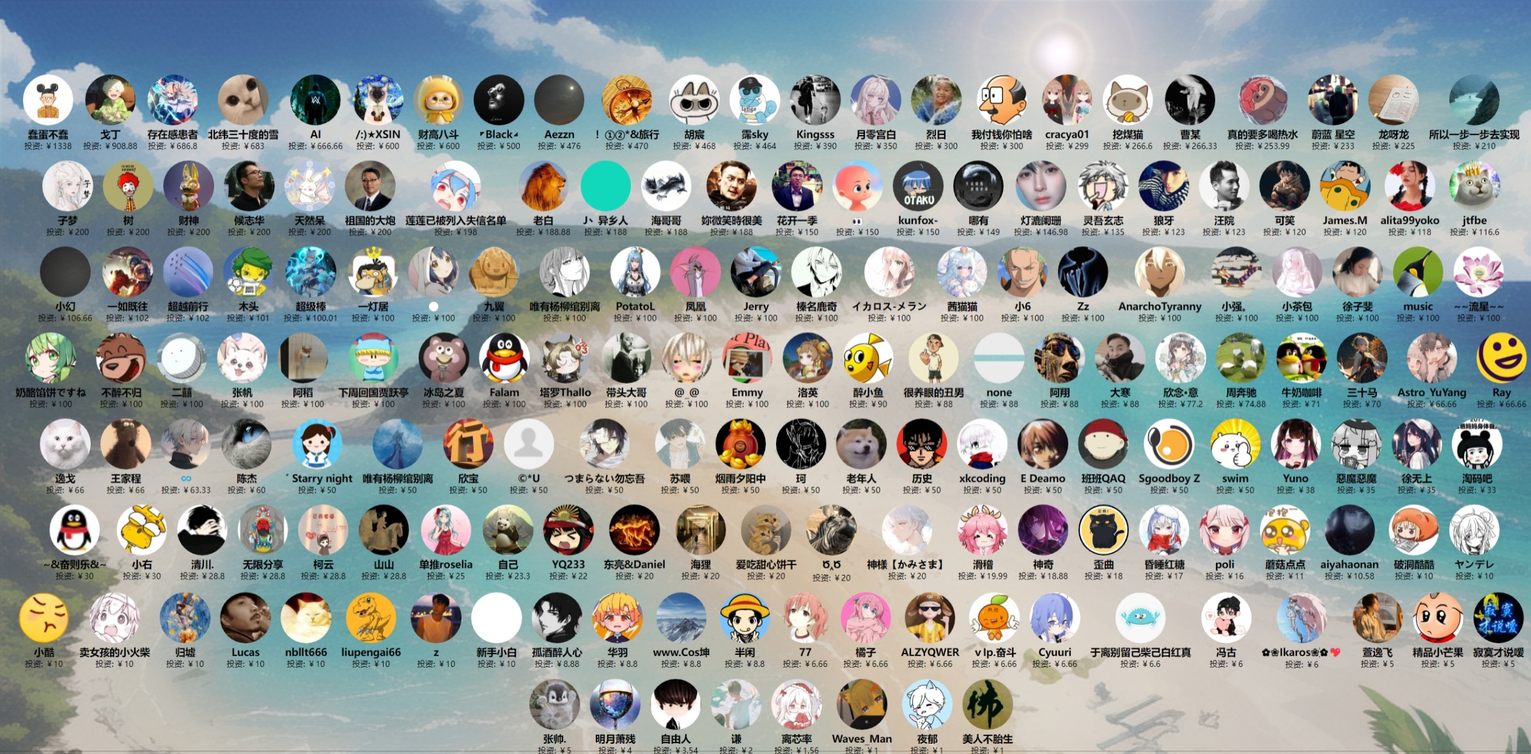
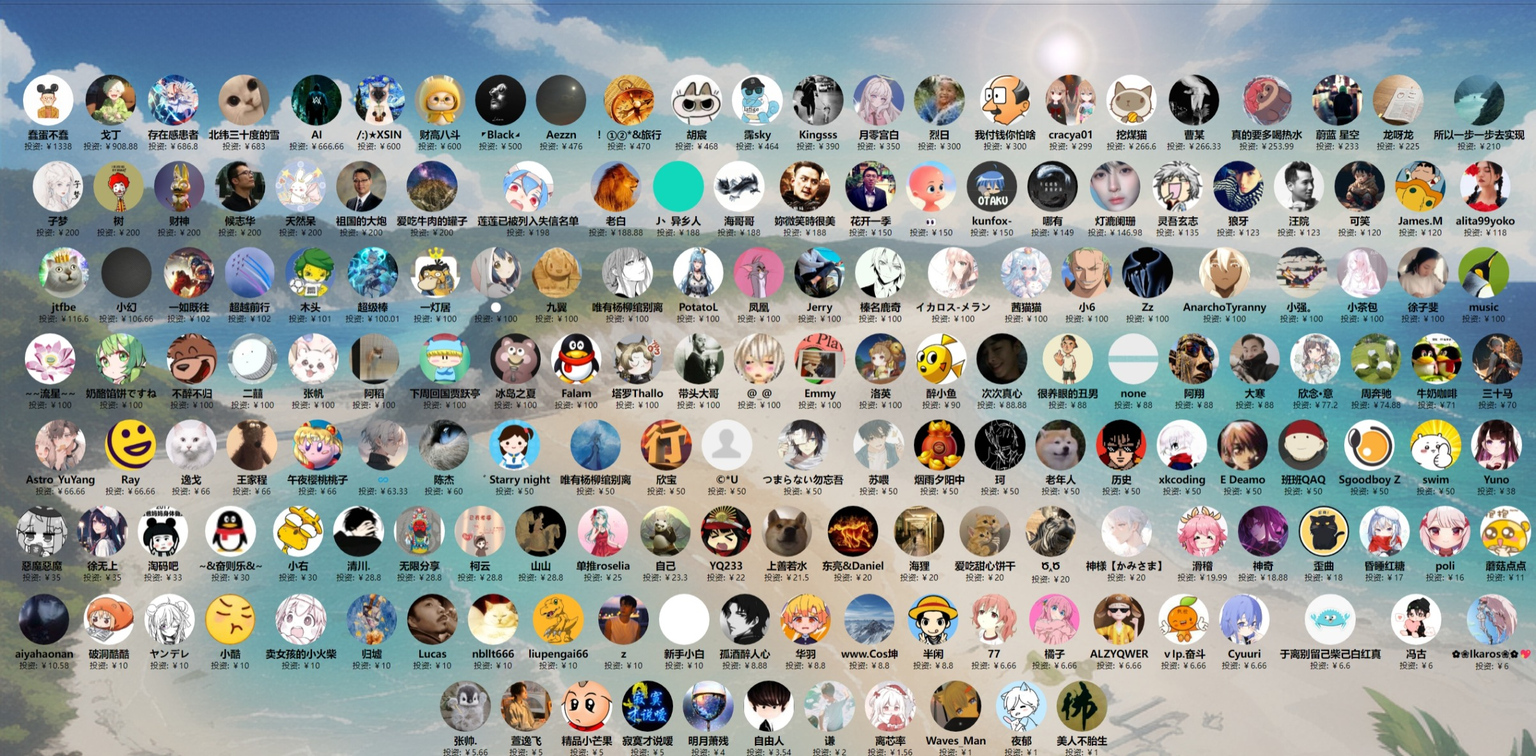
更新：投资人消息

diff --git a/docs/投资人/index.html b/docs/投资人/index.html
@@ -899,7 +899,27 @@
         {
             name: "张帅.",
             avatar: "https://images.cnblogs.com/cnblogs_com/ikaros-521/2328032/o_250125080141_QQ%E5%9B%BE%E7%89%8720250125160131.jpg",
-            amount: "5"
+            amount: "5.66"
+        },
+        {
+            name: "爱吃牛肉的罐子",
+            avatar: "https://images.cnblogs.com/cnblogs_com/ikaros-521/2328032/o_250223110202_AgAABTM-uTgtGVKFtFJGkIEPhJl5BS3f.png",
+            amount: "200"
+        },
+        {
+            name: "上善若水",
+            avatar: "https://images.cnblogs.com/cnblogs_com/ikaros-521/2328032/o_250223110202_AgAABTM-uTiscQKiDuFMj4F44-JLIljd.png",
+            amount: "21.5"
+        },
+        {
+            name: "次次真心",
+            avatar: "https://images.cnblogs.com/cnblogs_com/ikaros-521/2328032/o_250223110202_AgAABTM-uTjOlcWT8Z5AbIKDvcXDTubV.png",
+            amount: "88.88"
+        },
+        {
+            name: "午夜樱桃桃子",
+            avatar: "https://images.cnblogs.com/cnblogs_com/ikaros-521/2328032/o_250223110202_b_04a08f6c51f76b984a7d22a6c141780a.jpg",
+            amount: "66"
         }
     ];
 
